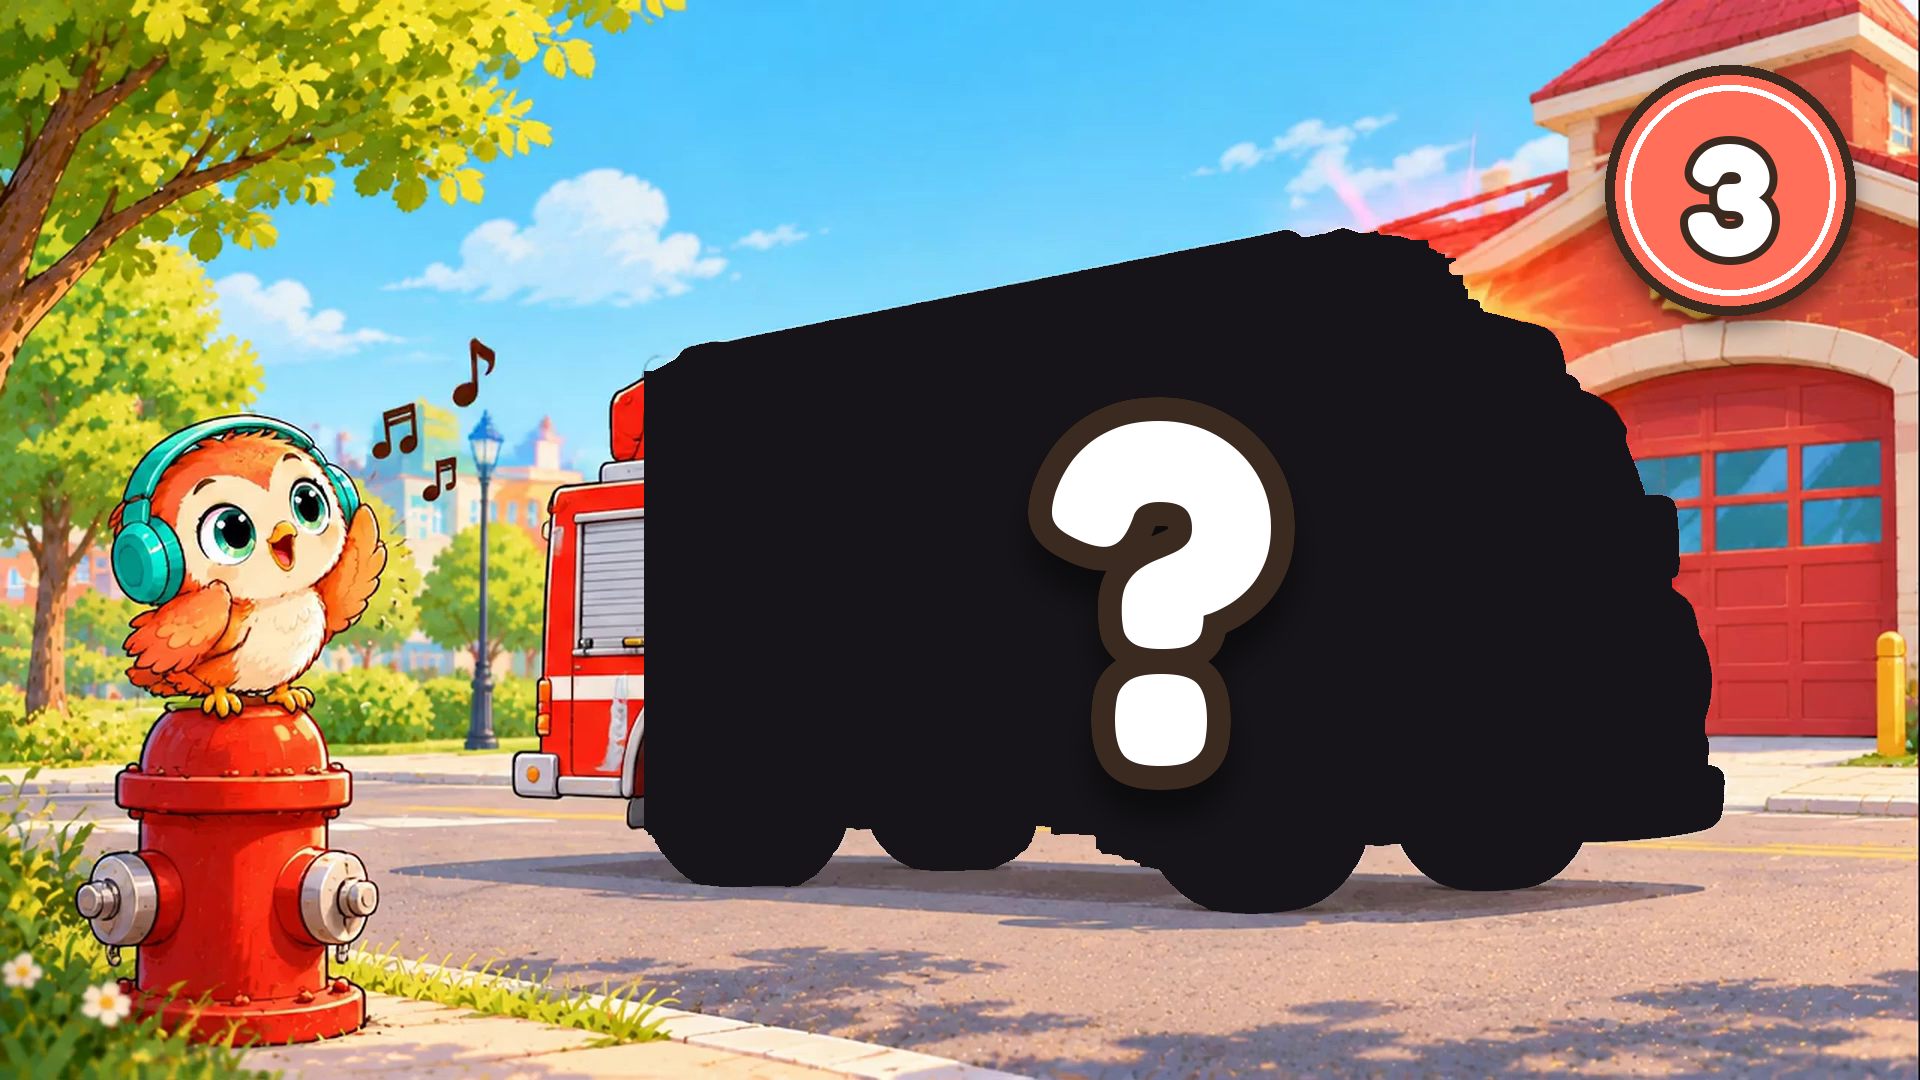
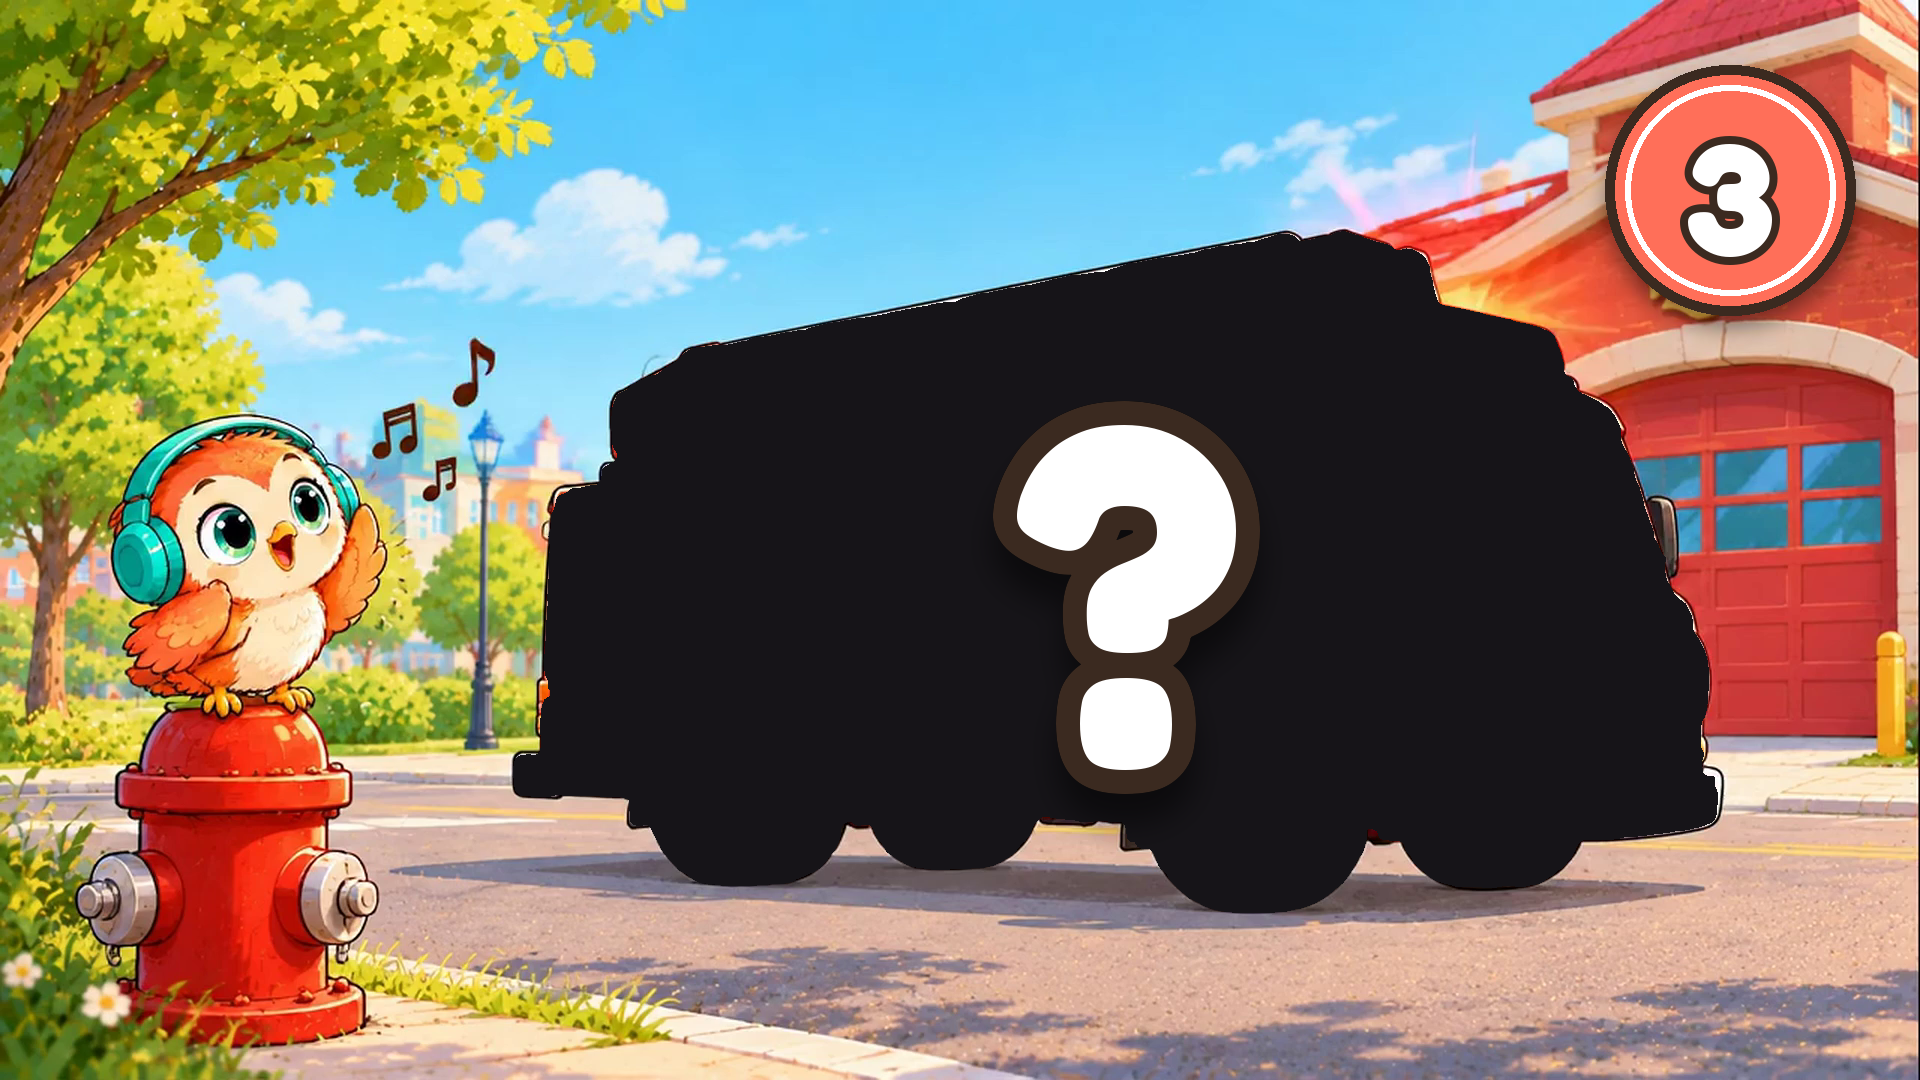
Video 3: all silhouettes (SAM box prompts for tricky vehicles)
Claude-Session: https://claude.ai/code/session_013XL8KMJpuTBCnbvZY37CBL

diff --git a/unelte/runda_sam.py b/unelte/runda_sam.py
@@ -19,6 +19,8 @@ out = os.path.join(ROOT, f"runda-{nr:02d}")
 im = Image.open(os.path.join(out, "cadru-0.png")).convert("RGB")
 w, h = im.size
 prompt = [{"type": "point", "data": p, "label": 1} for p in pos] + [{"type": "point", "data": p, "label": 0} for p in neg]
+if os.environ.get("SAM_BOX"):  # opțional: dreptunghi x0,y0,x1,y1 în jurul obiectului (merge mai bine la vehicule)
+    prompt.append({"type": "rectangle", "data": [int(v) for v in os.environ["SAM_BOX"].split(",")], "label": 1})
 m = np.array(remove(im, session=new_session("sam"), only_mask=True, sam_prompt=prompt)) > 127
 # completăm cu modelele obișnuite în zona animalului (capul/fața le scapă uneori lui SAM);
 # dacă fundalul se lipește de animal (acoperiș, frunză), rulează cu al 4-lea argument „doar-sam”
